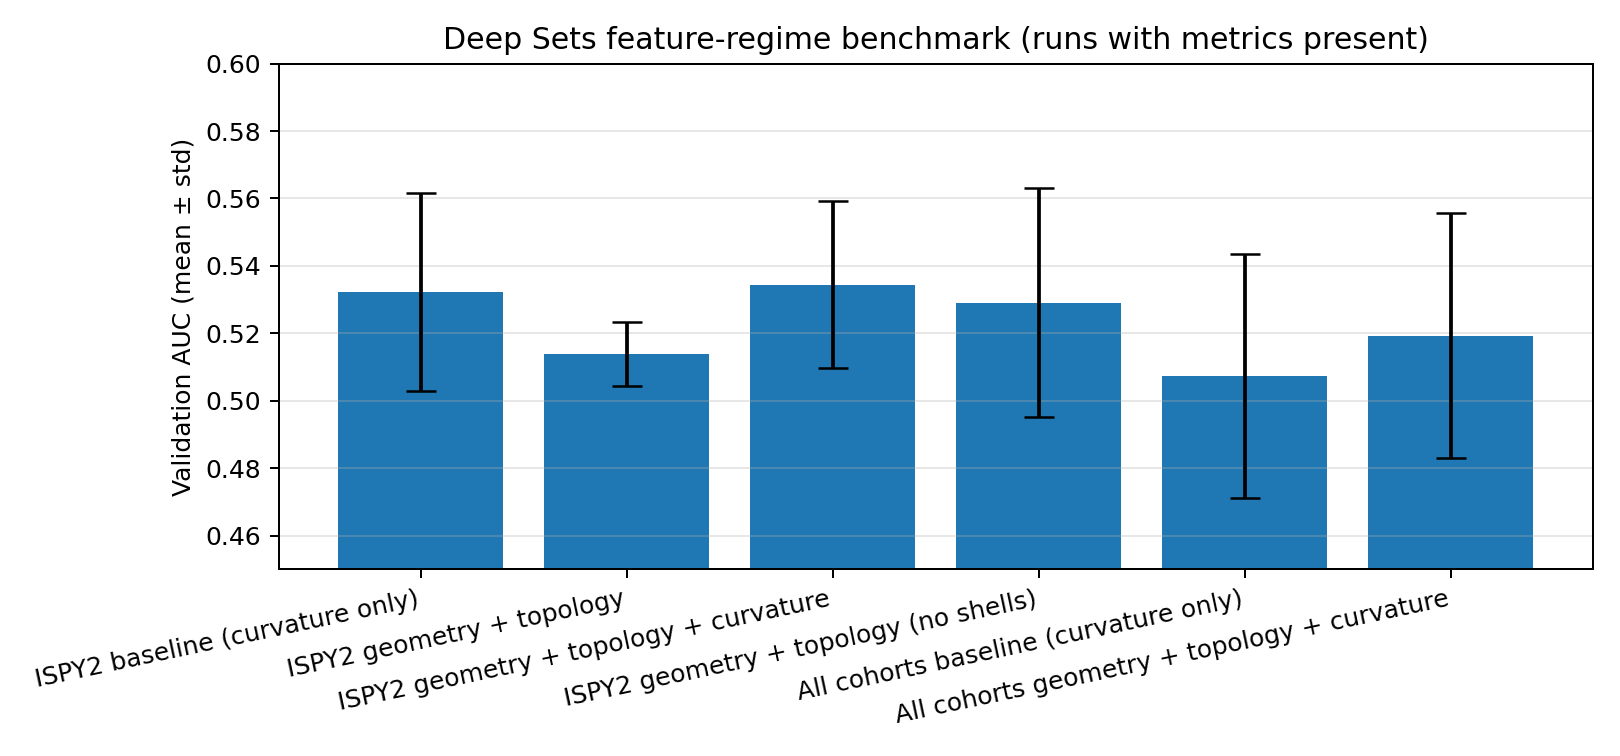
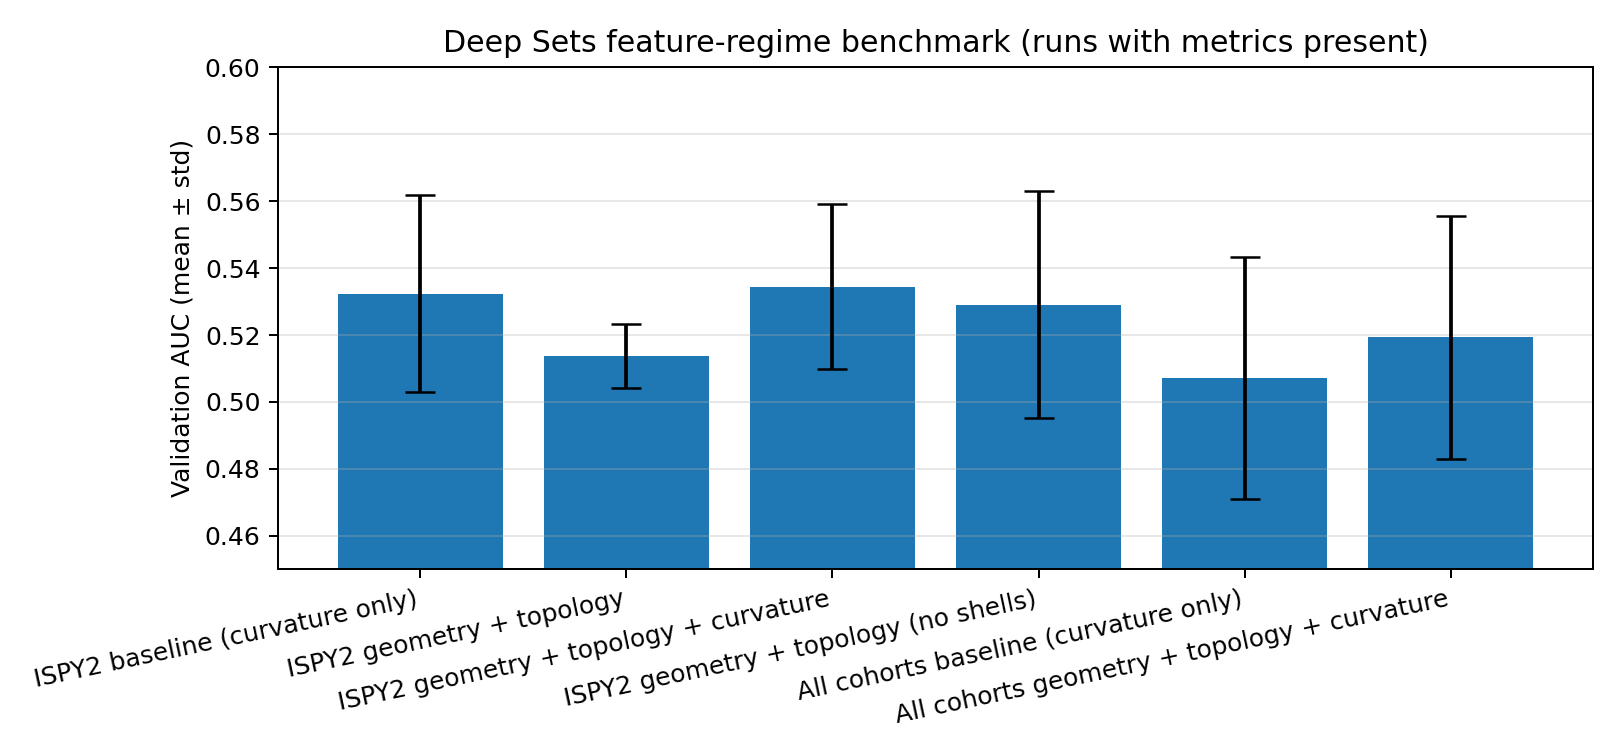
analysis: refresh Issue #120 feature-set benchmark results
Add scripts to refresh the benchmark summary CSV/AUC figure and to
audit kinetic_signal_ok coverage on dynamic experiment sets.

diff --git a/scripts/refresh_issue120_benchmark_summary.py b/scripts/refresh_issue120_benchmark_summary.py
@@ -1,0 +1,160 @@
+"""Refresh Issue #120 benchmark CSV and AUC figure from experiment metrics."""
+
+from __future__ import annotations
+
+import argparse
+import importlib
+import json
+import sys
+from pathlib import Path
+
+import matplotlib.pyplot as plt
+import pandas as pd
+
+ARMS = [
+    {
+        "label": "ISPY2 baseline (curvature only)",
+        "config": "configs/deepsets_ispy2_pointfeat_baseline.yaml",
+        "regime": "baseline",
+        "out_root": "experiments/deepsets_ispy2_pointfeat_baseline",
+    },
+    {
+        "label": "ISPY2 geometry + topology",
+        "config": "configs/deepsets_ispy2_pointfeat_geom_topo.yaml",
+        "regime": "geometry_topology",
+        "out_root": "experiments/deepsets_ispy2_pointfeat_geom_topo",
+    },
+    {
+        "label": "ISPY2 geometry + topology + dynamic",
+        "config": "configs/deepsets_ispy2_pointfeat_geom_topo_dynamic.yaml",
+        "regime": "geometry_topology_dynamic",
+        "out_root": "experiments/deepsets_ispy2_pointfeat_geom_topo_dynamic",
+    },
+    {
+        "label": "ISPY2 geometry + topology + curvature",
+        "config": "configs/deepsets_ispy2_pointfeat_geom_topo_plus_curvature.yaml",
+        "regime": "geometry_topology_plus_curvature",
+        "out_root": "experiments/deepsets_ispy2_pointfeat_geom_topo_plus_curvature",
+    },
+    {
+        "label": "ISPY2 geometry + topology (no shells)",
+        "config": "configs/deepsets_ispy2_pointfeat_geom_topo_no_shells.yaml",
+        "regime": "geometry_topology_no_shells",
+        "out_root": "experiments/deepsets_ispy2_pointfeat_geom_topo_no_shells",
+    },
+    {
+        "label": "ISPY2 curvature + dynamic",
+        "config": "configs/deepsets_ispy2_pointfeat_curvature_plus_dynamic.yaml",
+        "regime": "curvature_plus_dynamic",
+        "out_root": "experiments/deepsets_ispy2_pointfeat_curvature_plus_dynamic",
+    },
+    {
+        "label": "All cohorts baseline (curvature only)",
+        "config": "configs/deepsets_mamamia_pointfeat_baseline.yaml",
+        "regime": "baseline",
+        "out_root": "experiments/deepsets_mamamia_pointfeat_baseline",
+    },
+    {
+        "label": "All cohorts geometry + topology + curvature",
+        "config": "configs/deepsets_mamamia_pointfeat_geom_topo_plus_curvature.yaml",
+        "regime": "geometry_topology_plus_curvature",
+        "out_root": "experiments/deepsets_mamamia_pointfeat_geom_topo_plus_curvature",
+    },
+]
+
+
+def find_latest_deepsets_metrics(out_root: Path) -> Path | None:
+    """Return the newest metrics.json under <out_root>/train/."""
+    train_root = out_root / "train"
+    if not train_root.is_dir():
+        return None
+    candidates = list(train_root.rglob("metrics.json"))
+    if not candidates:
+        return None
+    return max(candidates, key=lambda p: p.stat().st_mtime)
+
+
+def build_summary(repo_root: Path) -> pd.DataFrame:
+    """Build the Issue #120 benchmark summary table from experiment metrics."""
+    deepsets_point_feature_names = importlib.import_module(
+        "build_deepsets_dataset"
+    ).deepsets_point_feature_names
+    rows = []
+    for arm in ARMS:
+        out = repo_root / arm["out_root"]
+        metrics_file = find_latest_deepsets_metrics(out)
+        n_features = len(deepsets_point_feature_names(arm["regime"]))
+        row = {
+            "arm": arm["label"],
+            "config": arm["config"],
+            "regime": arm["regime"],
+            "out_root": arm["out_root"],
+            "n_features": n_features,
+            "auc_mean": float("nan"),
+            "auc_std": float("nan"),
+            "metrics_path": "",
+            "status": "missing",
+        }
+        if metrics_file is not None:
+            payload = json.loads(metrics_file.read_text(encoding="utf-8"))
+            row["auc_mean"] = float(payload["aggregated_metrics"]["auc"]["mean"])
+            row["auc_std"] = float(payload["aggregated_metrics"]["auc"]["std"])
+            row["metrics_path"] = str(metrics_file)
+            row["status"] = "found"
+        rows.append(row)
+    return pd.DataFrame(rows)
+
+
+def save_figure(metrics_df: pd.DataFrame, fig_dir: Path) -> None:
+    """Write the AUC comparison bar chart when any metrics are present."""
+    plot_df = metrics_df.loc[metrics_df["status"] == "found"]
+    if plot_df.empty:
+        print("No metrics found; skipped benchmark plot.")
+        return
+    fig, ax = plt.subplots(figsize=(9, 4.2))
+    ax.bar(
+        plot_df["arm"],
+        plot_df["auc_mean"],
+        yerr=plot_df["auc_std"],
+        capsize=6,
+    )
+    ax.set_ylabel("Validation AUC (mean ± std)")
+    ax.set_ylim(0.45, 0.60)
+    ax.set_title("Deep Sets feature-regime benchmark (runs with metrics present)")
+    ax.grid(axis="y", alpha=0.3)
+    plt.xticks(rotation=12, ha="right")
+    fig.tight_layout()
+    out_png = fig_dir / "feature_set_auc_comparison.png"
+    fig.savefig(out_png, dpi=180)
+    plt.close(fig)
+    print(f"Saved: {out_png}")
+
+
+def main() -> None:
+    """Refresh benchmark CSV and figure under analysis/figures/deepsets_issue120/."""
+    parser = argparse.ArgumentParser(description=__doc__)
+    parser.add_argument(
+        "--repo-root",
+        type=Path,
+        default=Path(__file__).resolve().parents[1],
+    )
+    args = parser.parse_args()
+    repo_root = args.repo_root.resolve()
+    if str(repo_root) not in sys.path:
+        sys.path.insert(0, str(repo_root))
+    fig_dir = repo_root / "analysis" / "figures" / "deepsets_issue120"
+    fig_dir.mkdir(parents=True, exist_ok=True)
+    metrics_df = build_summary(repo_root)
+    found = int(metrics_df["status"].eq("found").sum())
+    print(f"Metrics loaded for {found}/{len(metrics_df)} experiments.")
+    if metrics_df["status"].eq("found").any():
+        summary_csv = fig_dir / "feature_set_benchmark_summary.csv"
+        metrics_df.to_csv(summary_csv, index=False)
+        print(f"Saved: {summary_csv}")
+        save_figure(metrics_df, fig_dir)
+    else:
+        print("Skipped CSV/figure (no metrics yet).")
+
+
+if __name__ == "__main__":
+    main()

diff --git a/scripts/deepsets_kinetic_coverage.py b/scripts/deepsets_kinetic_coverage.py
@@ -1,0 +1,67 @@
+"""Report kinetic_signal_ok coverage for a dynamic Deep Sets experiment."""
+
+from __future__ import annotations
+
+import argparse
+from pathlib import Path
+
+import torch
+
+KINETIC_OK_THRESHOLD = 0.5
+LOW_COVERAGE_FRACTION = 0.01
+
+
+def parse_args() -> argparse.Namespace:
+    """Parse CLI arguments for kinetic coverage reporting."""
+    parser = argparse.ArgumentParser(description=__doc__)
+    parser.add_argument(
+        "--out-root",
+        type=Path,
+        required=True,
+        help="Experiment root containing sets/*.pt",
+    )
+    parser.add_argument(
+        "--max-cases",
+        type=int,
+        default=50,
+        help="Maximum number of .pt sets to scan (0 = all, first N when capped)",
+    )
+    return parser.parse_args()
+
+
+def main() -> None:
+    """Sample Deep Sets .pt sets and print kinetic_signal_ok point fractions."""
+    args = parse_args()
+    sets_dir = args.out_root / "sets"
+    paths = sorted(sets_dir.glob("*.pt"))
+    if not paths:
+        raise FileNotFoundError(f"No .pt sets in {sets_dir}")
+    if args.max_cases > 0 and len(paths) > args.max_cases:
+        paths = paths[: args.max_cases]
+    case_rows = []
+    for path in paths:
+        payload = torch.load(path, map_location="cpu", weights_only=False)
+        feats = payload.get("features")
+        names = payload.get("feature_names") or []
+        if feats is None or "kinetic_signal_ok" not in names:
+            continue
+        idx = list(names).index("kinetic_signal_ok")
+        col = feats[:, idx].numpy()
+        frac_ok = float((col > KINETIC_OK_THRESHOLD).mean())
+        case_rows.append((path.stem, frac_ok, int(col.shape[0])))
+    if not case_rows:
+        print(f"No kinetic_signal_ok column in sampled sets under {sets_dir}")
+        return
+    fracs = [r[1] for r in case_rows]
+    print(f"Sampled {len(case_rows)} sets from {sets_dir}")
+    print(
+        f"  mean fraction points with kinetic_signal_ok==1: {sum(fracs) / len(fracs):.3f}"
+    )
+    print(f"  min / max: {min(fracs):.3f} / {max(fracs):.3f}")
+    low = [r for r in case_rows if r[1] < LOW_COVERAGE_FRACTION]
+    if low:
+        print(f"  cases with <1% kinetic ok (first 5): {[r[0] for r in low[:5]]}")
+
+
+if __name__ == "__main__":
+    main()
